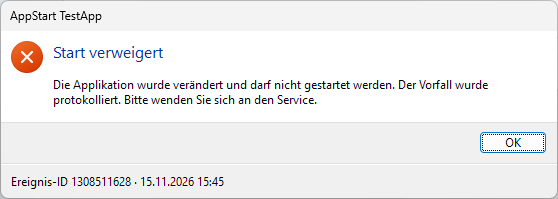
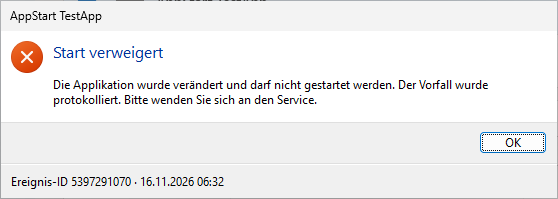
Manual screenshots and apps.json v2 reference (task 8.1), account test fixed, CLAUDE.md
- Capture-ManualScreenshots: learn mode, learn result, helpers dialog, wizard step 1 with helpers;
  wait for the Event Viewer main window; UAT runner suite Manual
- Manual images from 0.3.0-uat.5 (technician name anonymized), chapter 4 with four new images,
  chapter 9 apps.json version 2 (childProcesses, allowedChildren, allowShell, version 1), learn paths
- Texts: "1 Programm übernehmen", "1 Applikation freigegeben"
- AccountServiceReadOnlyTests: build 26300 allows the LSA read without elevation; access-denied text
  now tested deterministically through AccountErrors
- CLAUDE.md: this machine is the test VM

diff --git a/tests/AppStart.Setup.Tests/Accounts/AccountServiceReadOnlyTests.cs b/tests/AppStart.Setup.Tests/Accounts/AccountServiceReadOnlyTests.cs
@@ -93,21 +93,40 @@ public class AccountServiceReadOnlyTests
     }
 
     [Fact(SkipUnless = nameof(TestPlatform.IsWindows), SkipType = typeof(TestPlatform), Skip = TestPlatform.WindowsOnly)]
-    public void Facts_need_admin_rights_and_say_so_in_German()
+    public void Facts_are_correct_or_access_denied_in_German()
     {
+        // Elevated, the facts are always readable. Not elevated, it depends on the Windows build: on the earlier dev
+        // machine LsaOpenPolicy was denied; on build 26300 (test VM) the call succeeds without elevation.
+        // Either way: correct facts, or a clean German access-denied error, never anything else.
         using var identity = WindowsIdentity.GetCurrent();
-        if (new WindowsPrincipal(identity).IsInRole(WindowsBuiltInRole.Administrator))
+        AppStart.Setup.Engine.AccountFacts facts;
+        try
         {
-            var facts = new AccountService().GetFacts(identity.User!.Value);
-            Assert.True(facts.Exists);
-            Assert.Equal(identity.User, facts.Sid);
+            facts = new AccountService().GetFacts(identity.User!.Value);
+        }
+        catch (UnauthorizedAccessException ex) when (!new WindowsPrincipal(identity).IsInRole(WindowsBuiltInRole.Administrator))
+        {
+            Assert.Contains("Zugriff verweigert", ex.Message, StringComparison.Ordinal);
+            Assert.Contains("Administratorrechte", ex.Message, StringComparison.Ordinal);
             return;
         }
 
-        // Not elevated: LsaEnumerateAccountRights is denied; the error must be clean and German.
-        var ex = Assert.Throws<UnauthorizedAccessException>(() => new AccountService().GetFacts(identity.User!.Value));
-        Assert.Contains("Zugriff verweigert", ex.Message, StringComparison.Ordinal);
-        Assert.Contains("Administratorrechte", ex.Message, StringComparison.Ordinal);
+        Assert.True(facts.Exists);
+        Assert.Equal(identity.User, facts.Sid);
+    }
+
+    [Fact]
+    public void Access_denied_says_admin_rights_are_needed_in_German()
+    {
+        var win32 = AccountErrors.FromWin32((uint)Windows.Win32.Foundation.WIN32_ERROR.ERROR_ACCESS_DENIED, "Konto lesen");
+        var ntStatus = AccountErrors.FromNtStatus(new Windows.Win32.Foundation.NTSTATUS(unchecked((int)0xC0000022)), "Lokale Sicherheitsrichtlinie öffnen");
+
+        foreach (var ex in new[] { win32, ntStatus })
+        {
+            var denied = Assert.IsType<UnauthorizedAccessException>(ex);
+            Assert.Contains("Zugriff verweigert", denied.Message, StringComparison.Ordinal);
+            Assert.Contains("Administratorrechte", denied.Message, StringComparison.Ordinal);
+        }
     }
 
     [Fact(SkipUnless = nameof(TestPlatform.IsWindows), SkipType = typeof(TestPlatform), Skip = TestPlatform.WindowsOnly)]

diff --git a/src/AppStart.Setup/ViewModels/SetupTexts.cs b/src/AppStart.Setup/ViewModels/SetupTexts.cs
@@ -112,6 +112,7 @@ public static class SetupTexts
     public const string LearnResultFooter = "Eingabeaufforderung, PowerShell, Explorer und Skript-Hosts werden nie vorgeschlagen. Wer sie trotzdem braucht, trägt sie in «Erlaubte Hilfsprogramme» von Hand ein und bestätigt die Warnung.";
     public const string ButtonDiscard = "Verwerfen";
     public const string ButtonTakeOverFormat = "{0} Programme übernehmen";
+    public const string ButtonTakeOverOne = "1 Programm übernehmen";
     public const string LearnResultNothing = "Es wurde nichts aufgezeichnet. Wurde die Applikation während des Lernmodus über ihre Verknüpfung gestartet?";
 
     // ------------------------------------------------------------------ Step 2: accounts and group

diff --git a/src/AppStart.Setup/ViewModels/LearnResultViewModel.cs b/src/AppStart.Setup/ViewModels/LearnResultViewModel.cs
@@ -81,7 +81,9 @@ public sealed partial class LearnResultViewModel : ObservableObject
 
     public bool IsEmpty => Proposals.Count == 0;
 
-    public string TakeOverText => SetupTexts.Format(SetupTexts.ButtonTakeOverFormat, Proposals.Count(p => p.IsChecked));
+    public string TakeOverText => Proposals.Count(p => p.IsChecked) is var n && n == 1
+        ? SetupTexts.ButtonTakeOverOne
+        : SetupTexts.Format(SetupTexts.ButtonTakeOverFormat, n);
 
     /// <summary>The chosen entries after «übernehmen»; null after «Verwerfen».</summary>
     public IReadOnlyList<AllowedChild>? Selected { get; private set; }

diff --git a/src/AppStart.Setup/Engine/SetupEngineTexts.cs b/src/AppStart.Setup/Engine/SetupEngineTexts.cs
@@ -14,6 +14,7 @@ public static class SetupEngineTexts
     public const string AccountsFailed = "Konten und Gruppe konnten nicht eingerichtet werden";
 
     public const string AppsReleased = "{0} Applikationen freigegeben, Konfiguration geschützt";
+    public const string AppReleasedOne = "1 Applikation freigegeben, Konfiguration geschützt";
     public const string ConfigFailed = "Konfiguration konnte nicht geschrieben werden";
     public const string ConfigUnreadable = "apps.json ist ungültig: {0}";
     public const string UnknownApp = "Applikation «{0}» ist nicht freigegeben";

diff --git a/tests/AppStart.Setup.Tests/Wizard/HelpersViewModelTests.cs b/tests/AppStart.Setup.Tests/Wizard/HelpersViewModelTests.cs
@@ -244,7 +244,7 @@ public sealed class HelpersViewModelTests
         var rec = new LearnRecording { AppId = "appa" }.Record(Export, new string('B', 40), new string('1', 64), null, DateTimeOffset.UtcNow);
         var vm = new LearnResultViewModel(_engine, "appa", "Applikation A", rec);
 
-        Assert.Equal("1 Programme übernehmen", vm.TakeOverText);
+        Assert.Equal("1 Programm übernehmen", vm.TakeOverText);
         vm.Proposals[0].IsChecked = false;
         Assert.Equal("0 Programme übernehmen", vm.TakeOverText);
     }

diff --git a/tests/AppStart.Setup.Tests/Orchestration/SetupEngineTests.cs b/tests/AppStart.Setup.Tests/Orchestration/SetupEngineTests.cs
@@ -61,7 +61,7 @@ public sealed class SetupEngineTests : IDisposable
         Assert.Single(_state.Current.ShortcutBackups);
         Assert.Contains(@"C:\Program Files\AppStart\current\AppStart.Launcher.exe", _shortcuts.LauncherTargets);
         Assert.All(results.Take(4), r => Assert.True(r.Success, r.Text + r.Detail));
-        Assert.Equal("1 Applikationen freigegeben, Konfiguration geschützt", results[1].Text);
+        Assert.Equal("1 Applikation freigegeben, Konfiguration geschützt", results[1].Text);
     }
 
     [Fact]

diff --git a/src/AppStart.Setup/Engine/SetupEngine.cs b/src/AppStart.Setup/Engine/SetupEngine.cs
@@ -162,7 +162,7 @@ public sealed class SetupEngine(
 
             protection.WriteProtectedFile(paths.ConfigPath, AppsConfigSerializer.Serialize(config));
             stateStore.Save(state);
-            results.Add(new(string.Format(SetupEngineTexts.AppsReleased, entries.Count), true));
+            results.Add(new(entries.Count == 1 ? SetupEngineTexts.AppReleasedOne : string.Format(SetupEngineTexts.AppsReleased, entries.Count), true));
         }
         catch (Exception ex) when (ex is not OutOfMemoryException)
         {

diff --git a/docs/manual/images/README.md b/docs/manual/images/README.md
@@ -1,29 +1,42 @@
 # Bilder des Handbuchs
 
-Bildschirmfotos stammen aus der **fertigen Software auf der Test-VM** (Task 10.2), nicht aus den UI-Entwürfen. Format PNG, Fenster ohne Schatten (Alt+Druck oder Snipping Tool «Fenster»), 100 % Skalierung, deutsches Windows 11. Rechnername `PC-014`, keine echten Kunden- oder Domänennamen.
+Bildschirmfotos stammen aus der **fertigen Software auf der Test-VM**, nicht aus den UI-Entwürfen. Format PNG, Fenster ohne Schatten, 100 % Skalierung, Windows 11. Keine echten Kunden- oder Domänennamen und keine Namen von Personen.
+
+Aufgenommen werden sie mit `tests/e2e/Capture-ManualScreenshots.ps1` (im UAT-Runner Suite `Manual`). Die Test-VM heisst `WIN11`; dieser Name erscheint in den Bildern statt `PC-014` aus den UI-Entwürfen.
+
+Nachbearbeitung, damit kein Personenname im Handbuch steht:
+
+- `pruefansicht-ok.png`, `pruefansicht-abweichung.png`: Der Wert «Servicetechniker» zeigt das angemeldete Konto. Der Kontoname nach `WIN11\` ist durch «techniker» ersetzt.
+- `testapp.png`: Die Titelleiste ist abgeschnitten. Das Fenster läuft unter `appstart-app` und lässt sich aus der Testsitzung nicht in den Vordergrund holen, die Titelleiste erscheint dann blass.
 
 Solange eine Datei fehlt, setzt `build/ManualBuilder` im PDF einen Platzhalter mit dem Bildtitel ein. Der Test `AppStart.Documentation.Tests` verlangt, dass jedes im Handbuch verwendete Bild entweder vorhanden ist oder hier aufgeführt wird.
 
 ## Vorhanden
 
-| Datei | Inhalt |
-|---|---|
-| `funktionsweise.svg` | Funktionsweise in einem Bild (Kapitel 1), von Hand gezeichnet |
+| Datei | Kapitel | Inhalt | Stand |
+|---|---|---|---|
+| `funktionsweise.svg` | 1 Überblick | Funktionsweise in einem Bild, von Hand gezeichnet | – |
+| `bootstrapper.png` | 3 Installation | `AppStart-Setup.exe` während der MSI-Installation | 0.3.0-uat.5 |
+| `setup-1.png` | 3 Installation | Assistent Schritt 1, TestApp mit Datenordner und Registry-Key, «Weitere Programme: Gesperrt (empfohlen)» | 0.3.0-uat.5 |
+| `setup-2.png` | 3 Installation | Assistent Schritt 2, Bedienerkonto, Beispielmitglied `DOMAIN\bediener01` | 0.3.0-uat.5 |
+| `setup-3-laeuft.png` | 3 Installation | Assistent Schritt 3 während der Einrichtung | älterer Stand (vor add-allowed-child-processes); die Einrichtung ist auf der Test-VM zu schnell für eine neue Aufnahme |
+| `setup-3.png` | 3 Installation | Assistent Schritt 3 abgeschlossen, «Prüfung bestanden – 9 von 9 Prüfpunkten erfüllt» | 0.3.0-uat.5 |
+| `testapp.png` | 3 Installation | TestApp als Bediener, «Start blockiert durch Job-Objekt» | 0.3.0-uat.5 |
+| `setup-weitere-programme.png` | 4 Applikationen | Schritt 1 mit «Nur erlaubte Hilfsprogramme», «Hilfsprogramme (1)…», Spalte «1 erlaubt» | 0.3.0-uat.5 |
+| `hilfsprogramme.png` | 4 Applikationen | Dialog «Erlaubte Hilfsprogramme» mit TestHelper (SHA-256, nicht signiert) | 0.3.0-uat.5 |
+| `lernmodus.png` | 4 Applikationen | «Lernmodus läuft» mit TestHelper und cmd.exe aufgezeichnet | 0.3.0-uat.5 |
+| `lernergebnis.png` | 4 Applikationen | «Vorschläge übernehmen»: TestHelper angehakt, cmd.exe «Eingabeaufforderung – nur von Hand» | 0.3.0-uat.5 |
+| `pruefansicht-ok.png` | 6 Prüfung | Prüfansicht ohne Abweichung, 9 Prüfpunkte | 0.3.0-uat.5, anonymisiert |
+| `pruefansicht-abweichung.png` | 6 Prüfung | Abweichung bei «Konten»: `appstart-user` in den Administratoren | 0.3.0-uat.5, anonymisiert |
+| `verify-konsole.png` | 6 Prüfung | `AppStart.Setup.exe verify` mit derselben Abweichung | 0.3.0-uat.5 |
+| `launcher-nicht-erreichbar.png` | 7 Meldungen | Dienst gestoppt: «Start-Dienst nicht erreichbar» | 0.3.0-uat.5 |
+| `launcher-verweigert.png` | 7 Meldungen | Ein Byte der EXE geändert: «Start verweigert» mit Ereignis-ID | 0.3.0-uat.5 |
 
 ## Fehlende Bildschirmfotos
+
+Beide zeigen Fenster von Windows selbst. Die Test-VM hat eine englische Oberfläche, das Handbuch braucht deutsches Windows. Aufnahme auf einer VM mit deutscher Oberfläche, mit demselben Skript.
 
 | Datei | Kapitel | Bildschirm | Zustand |
 |---|---|---|---|
 | `startmenue.png` | 3 Installation | Startmenü, Ordner «AppStart» aufgeklappt | Einträge «AppStart – Einrichtung», «AppStart – Einrichtung prüfen», «AppStart – Handbuch» sichtbar |
-| `bootstrapper.png` | 3 Installation | Fenster von `AppStart-Setup.exe` | Während der MSI-Installation: «AppStart wird installiert …» |
-| `setup-1.png` | 3 Installation | Assistent, Schritt 1 «Applikationen auswählen» | Zwei Applikationen in der Liste (eine mit «Signatur», die TestApp mit «SHA-256»), TestApp markiert, «Schutz für AppStart TestApp» mit Datenordner `C:\ProgramData\AppStartTest` und Registry-Key `HKLM\SOFTWARE\AppStartTest` ausgefüllt, Knopf «Einrichtung prüfen» sichtbar |
-| `setup-2.png` | 3 Installation | Assistent, Schritt 2 «Konten und Gruppe» | Erstinstallation: App-Konto «Wird angelegt …», «Bedienerkonto appstart-user anlegen» angehakt, Passwortfelder gefüllt (Punkte), ein weiteres Mitglied `DOMAIN\bediener01` in der Liste |
-| `setup-3-laeuft.png` | 3 Installation | Assistent, Schritt 3 | Während der Einrichtung: «Einrichtung läuft», Fortschrittszeile z.B. «Datenordner und Registry-Keys werden gesperrt …» |
-| `setup-3.png` | 3 Installation | Assistent, Schritt 3 | Abgeschlossen: fünf Zeilen mit ✓, «Prüfung bestanden – 8 von 8 Prüfpunkten erfüllt», Pfad des Berichts, Knöpfe «Prüfbericht öffnen» und «Fertig» |
-| `testapp.png` | 3 Installation | Fenster «AppStart TestApp» | Gestartet als Bediener über die Verknüpfung, alle Zeilen «OK», nach Klick auf «Eingabeaufforderung starten»: «Start blockiert durch Job-Objekt» |
-| `pruefansicht-ok.png` | 6 Prüfung | Prüfansicht «AppStart – Einrichtung prüfen» | Keine Abweichung, grüner Kasten «Einrichtung entspricht dem Soll» |
-| `pruefansicht-abweichung.png` | 6 Prüfung | Prüfansicht | Eine Abweichung bei «Konten»: `appstart-user` vorübergehend in die Administratoren aufgenommen, roter Kasten «Einsatz nicht abschliessen» |
-| `verify-konsole.png` | 6 Prüfung | Eingabeaufforderung (Administrator) | Ausgabe von `AppStart.Setup.exe verify` mit einer Abweichung (wie `pruefansicht-abweichung.png`) |
-| `launcher-nicht-erreichbar.png` | 7 Meldungen | Meldung des Launchers | Dienst gestoppt (`sc stop AppStart`), Start der TestApp: «Start-Dienst nicht erreichbar» |
-| `launcher-verweigert.png` | 7 Meldungen | Meldung des Launchers | Byte der TestApp-EXE geändert: «Start verweigert» mit Zeile «Ereignis-ID … · Datum Uhrzeit» |
-| `ereignisanzeige.png` | 7 Meldungen | Ereignisanzeige, Protokoll «Anwendung», gefiltert auf Quelle AppStart | Eintrag 1201 markiert, Text mit «Vorgang: …» sichtbar |
+| `ereignisanzeige.png` | 7 Meldungen | Ereignisanzeige, Protokoll «Anwendung», gefiltert auf Quelle AppStart | Eintrag 1201 markiert, Text mit «Vorgang: …» sichtbar; Windows aktiviert (kein Wasserzeichen) |

diff --git a/docs/manual/09-referenz.md b/docs/manual/09-referenz.md
@@ -397,11 +397,11 @@ Akzeptiert genau `--app` und eine gültige AppId, sonst «Ungültige Verknüpfun
 
 ## Soll-Konfiguration apps.json
 
-Pfad: `C:\ProgramData\AppStart\apps.json`. Lesen und schreiben nur SYSTEM und Administratoren (Besitzer Administratoren, Zugriffsliste geschützt, nicht geerbt). Der Dienst liest die Datei bei jeder Startanfrage neu. Das Setup schreibt sie; von Hand nur für `allowChildProcesses` bearbeiten.
+Pfad: `C:\ProgramData\AppStart\apps.json`. Lesen und schreiben nur SYSTEM und Administratoren (Besitzer Administratoren, Zugriffsliste geschützt, nicht geerbt). Der Dienst liest die Datei bei jeder Startanfrage neu. Das Setup schreibt sie; von Hand bearbeiten ist nicht nötig, auch die weiteren Programme setzen Assistent und Kommandozeile (`set-children`, `allow-child`, `deny-child`, `learn`).
 
 ```json
 {
-  "version": 1,
+  "version": 2,
   "apps": [
     {
       "id": "app-a",
@@ -411,7 +411,11 @@ Pfad: `C:\ProgramData\AppStart\apps.json`. Lesen und schreiben nur SYSTEM und Ad
       "check": "signature",
       "signerThumbprint": "3F2A9C0D8E7B6A5948372615F4E3D2C1B0A99887",
       "sha256": null,
-      "allowChildProcesses": false,
+      "childProcesses": "allowlist",
+      "allowedChildren": [
+        { "exe": "C:\\Program Files\\Hersteller\\AppA\\Export.exe", "check": "signature", "signerThumbprint": "3F2A9C0D8E7B6A5948372615F4E3D2C1B0A99887" },
[1 lines of base64/hex data omitted]
+      ],
       "dataDir": "C:\\ProgramData\\Hersteller\\AppA",
       "registryKey": "HKLM\\SOFTWARE\\Hersteller\\AppA"
     },
@@ -423,7 +427,7 @@ Pfad: `C:\ProgramData\AppStart\apps.json`. Lesen und schreiben nur SYSTEM und Ad
       "check": "sha256",
       "signerThumbprint": null,
[1 lines of base64/hex data omitted]
-      "allowChildProcesses": false,
+      "childProcesses": "blocked",
       "dataDir": "C:\\ProgramData\\AppStartTest",
       "registryKey": "HKLM\\SOFTWARE\\AppStartTest"
     }
@@ -433,7 +437,7 @@ Pfad: `C:\ProgramData\AppStart\apps.json`. Lesen und schreiben nur SYSTEM und Ad
 
 | Feld | Pflicht | Regel |
 |---|---|---|
-| `version` | ja | Immer `1` |
+| `version` | ja | `2`. Version `1` (vor den weiteren Programmen) liest der Dienst weiter, siehe unten. |
 | `apps` | ja | Liste der freigegebenen Applikationen, darf leer sein |
 | `id` | ja | AppId: `a-z`, `0-9` und `-`, 1 bis 32 Zeichen, eindeutig. Steht in der Verknüpfung (`--app`). |
 | `name` | ja | Anzeigename, nicht leer. Name der Verknüpfung `<name>.lnk`. |
@@ -442,11 +446,15 @@ Pfad: `C:\ProgramData\AppStart\apps.json`. Lesen und schreiben nur SYSTEM und Ad
 | `check` | ja | `signature`: gültige Authenticode-Signatur und Zertifikat mit `signerThumbprint` (keine Online-Sperrprüfung). `sha256`: Prüfsumme muss exakt stimmen. |
 | `signerThumbprint` | bei `signature` | 40 Hex-Zeichen, sonst `null` |
 | `sha256` | bei `sha256` | 64 Hex-Zeichen, sonst `null` |
-| `allowChildProcesses` | nein | `false` (Standard): Applikation im Job-Objekt, keine weiteren Programme. `true`: kein Job-Objekt. |
+| `childProcesses` | nein | Weitere Programme: `blocked` (Standard, auch wenn das Feld fehlt): Job-Objekt, keine weiteren Programme. `allowlist`: überwachtes Job-Objekt, nur Programme aus `allowedChildren`, alle anderen beendet der Dienst sofort (Ereignis 1206). `all`: kein Job-Objekt; `verify` nennt die Applikation als Hinweis. |
+| `allowedChildren` | bei `allowlist` | Nur bei `allowlist`, dort mindestens ein Eintrag. Je Eintrag `exe` (absoluter lokaler Pfad auf `.exe`, ohne `%`, je Applikation eindeutig), `check` und `signerThumbprint` bzw. `sha256` nach denselben Regeln wie bei der Applikation, optional `allowShell: true`. |
+| `allowShell` | bei Shells | In einem Eintrag von `allowedChildren`: nötig für `cmd.exe`, `powershell.exe`, `pwsh.exe`, `wscript.exe`, `cscript.exe`, `mshta.exe`, `rundll32.exe`, `regsvr32.exe` und `explorer.exe`; bestätigt, dass ein Bediener damit jedes Programm mit Admin-Rechten starten kann. |
 | `dataDir` | nein | Datenordner, absoluter lokaler Pfad, oder `null` |
 | `registryKey` | nein | Key unter `HKLM\`, oder `null` |
 
 Unbekannte Felder, Kommentare und Kommas nach dem letzten Element sind nicht erlaubt; die Datei ist dann ungültig.
+
+**Version 1.** Installationen vor den weiteren Programmen haben `"version": 1` und je Applikation `allowChildProcesses` statt `childProcesses`. Der Dienst liest Version 1 weiter: `false` (oder fehlend) wirkt wie `blocked`, `true` wie `all`. Die erste Änderung durch das Setup (z.B. `rehash`, Assistent) schreibt Version 2 mit demselben Modus. In Version 2 ist `allowChildProcesses` ein Fehler, in Version 1 sind `childProcesses` und `allowedChildren` Fehler.
 
 ## Pfade
 
@@ -459,6 +467,8 @@ Unbekannte Felder, Kommentare und Kommas nach dem letzten Element sind nicht erl
 | `C:\Program Files\AppStart\current\TestApp\AppStart.TestApp.exe` | Testapplikation | wie oben |
 | `C:\ProgramData\AppStart` | Daten von AppStart | Nur SYSTEM und Administratoren |
 | `C:\ProgramData\AppStart\apps.json` | Freigaben | Nur SYSTEM und Administratoren |
+| `C:\ProgramData\AppStart\learn.json` | Laufende Lernmodi (AppId, Beginn, Ende). Schreibt nur das Setup (`learn start`/`stop`). Ist sie für Bediener beschreibbar, ignoriert der Dienst sie (Ereignis 1207). | Nur SYSTEM und Administratoren |
+| `C:\ProgramData\AppStart\Learn\<AppId>.json` | Aufzeichnung des Lernmodus je Applikation (Programme, Prüfwerte, Starts). Wird nach `learn apply` bzw. «Verwerfen» gelöscht. | Nur SYSTEM und Administratoren |
 | `C:\ProgramData\AppStart\setup-state.json` | Was das Setup geändert hat (gesicherte Rechte, angelegte Verknüpfungen), Grundlage für `remove` und `uninstall`. Nicht bearbeiten. | Nur SYSTEM und Administratoren |
 | `C:\ProgramData\AppStart\ShortcutBackup` | Gesicherte Verknüpfungen, die direkt auf eine EXE zeigten | Nur SYSTEM und Administratoren |
 | `C:\ProgramData\AppStart\Reports` | Prüfberichte `verify-<JJJJ-MM-TT-hhmmss>.html` und `.json` | Nur SYSTEM und Administratoren |

diff --git a/docs/manual/04-applikationen-verwalten.md b/docs/manual/04-applikationen-verwalten.md
@@ -117,6 +117,8 @@ In Schritt 1 zeigt die Spalte «Weitere Programme» den Modus jeder Applikation,
 
 Die Änderungen gelten erst, wenn Sie den Assistenten mit «Weiter» abschliessen.
 
+![Setup Schritt 1: Weitere Programme «Nur erlaubte Hilfsprogramme», ein Hilfsprogramm erlaubt](images/setup-weitere-programme.png)
+
 **Dialog «Erlaubte Hilfsprogramme – Applikation A».** Überschrift «Erlaubte Hilfsprogramme», darunter «Diese Programme darf Applikation A starten. Sie laufen dann ebenfalls mit Admin-Rechten. Jedes andere Programm beendet der Dienst sofort und protokolliert es.» Die Liste zeigt je Programm die Prüfung und den Zustand:
 
 | Zustand | Bedeutung |
@@ -133,6 +135,8 @@ Knöpfe: «EXE hinzufügen…», «Lernmodus starten…», «Prüfsumme aktualis
 
 «Übernehmen» gibt die Liste an den Assistenten zurück, «Abbrechen» verwirft die Änderungen im Dialog.
 
+![Dialog «Erlaubte Hilfsprogramme» mit einem nicht signierten Hilfsprogramm](images/hilfsprogramme.png)
+
 ### Lernmodus: Hilfsprogramme ermitteln
 
 Welche Programme eine Applikation braucht, ist oft nicht bekannt. Der Lernmodus zeichnet es auf: Für eine begrenzte Zeit beendet der Dienst bei dieser Applikation nichts, sondern notiert jedes gestartete Programm (Ereignis 1102). Danach gilt wieder der eingestellte Modus, auch in einer noch laufenden Applikation.
@@ -144,6 +148,8 @@ Der Lernmodus ist erst möglich, wenn die Applikation eingerichtet ist. Sonst me
 3. Die Liste «Aufgezeichnete Programme» zeigt «Starts» und «Zuletzt» je Programm, anfangs «Noch nichts aufgezeichnet.»
 4. «Lernmodus beenden» (oder Ablauf der Zeit) führt zu «Vorschläge übernehmen». «Abbrechen, nichts übernehmen» beendet den Lernmodus und löscht die Aufzeichnung. Kann der Lernmodus nicht starten, steht «Der Lernmodus konnte nicht gestartet werden: …» mit dem Grund im Dialog.
 
+![Lernmodus läuft: zwei aufgezeichnete Programme, Restzeit rechts oben](images/lernmodus.png)
+
 **Dialog «Vorschläge übernehmen».** «Der Lernmodus ist beendet, der Schutz wieder aktiv. Wählen Sie, welche Programme Applikation A künftig starten darf.» Gültig signierte Programme werden mit Signatur vorgeschlagen, alle anderen mit SHA-256. Die Spalte «Hinweis»:
 
 | Hinweis | Vorauswahl |
@@ -154,7 +160,9 @@ Der Lernmodus ist erst möglich, wenn die Applikation eingerichtet ist. Sonst me
 | «Eingabeaufforderung – nur von Hand», «Shell oder Skript-Host – nur von Hand» | nicht auswählbar |
 | «Ordner für Bediener beschreibbar» | nicht auswählbar |
 
-Unten: «Eingabeaufforderung, PowerShell, Explorer und Skript-Hosts werden nie vorgeschlagen. Wer sie trotzdem braucht, trägt sie in «Erlaubte Hilfsprogramme» von Hand ein und bestätigt die Warnung.» «2 Programme übernehmen» übernimmt die angehakten in die Liste, «Verwerfen» nichts; beide löschen die Aufzeichnung. Wurde nichts aufgezeichnet: «Es wurde nichts aufgezeichnet. Wurde die Applikation während des Lernmodus über ihre Verknüpfung gestartet?»
+Unten: «Eingabeaufforderung, PowerShell, Explorer und Skript-Hosts werden nie vorgeschlagen. Wer sie trotzdem braucht, trägt sie in «Erlaubte Hilfsprogramme» von Hand ein und bestätigt die Warnung.» «2 Programme übernehmen» (bei einem: «1 Programm übernehmen») übernimmt die angehakten in die Liste, «Verwerfen» nichts; beide löschen die Aufzeichnung. Wurde nichts aufgezeichnet: «Es wurde nichts aufgezeichnet. Wurde die Applikation während des Lernmodus über ihre Verknüpfung gestartet?»
+
+![Vorschläge übernehmen: Hilfsprogramm angehakt, cmd.exe nicht auswählbar](images/lernergebnis.png)
 
 Meldungen des Lernmodus auf der Kommandozeile:
 

diff --git a/docs/manual/07-meldungen-und-fehlerbehebung.md b/docs/manual/07-meldungen-und-fehlerbehebung.md
@@ -179,7 +179,7 @@ Assistent (Schritt 3) und Kommandozeile zeigen je Schritt eine Zeile mit ✓ ode
 |---|---|---|
 | «Konten appstart-app und appstart-user, Gruppe AppStart Users angelegt» / «Konto appstart-app und Gruppe AppStart Users angelegt» | Konten und Gruppe eingerichtet (vorhandene geprüft) | – |
 | «Konten und Gruppe konnten nicht eingerichtet werden» | Konto oder Gruppe konnten nicht angelegt werden; die weiteren Schritte entfallen. Gründe z.B. «Zugriff verweigert. Dafür sind Administratorrechte nötig.», «Das Passwort erfüllt die Kennwortrichtlinie dieses Computers nicht (Länge, Komplexität oder Verlauf).», «Das Konto «…» wurde nicht gefunden.», «… ist kein Benutzerkonto.» | Grund beheben (Admin-Rechte, anderes Passwort, Konto prüfen), Einrichtung wiederholen |
-| «2 Applikationen freigegeben, Konfiguration geschützt» | `apps.json` geschrieben und geschützt | – |
+| «2 Applikationen freigegeben, Konfiguration geschützt» (bei einer: «1 Applikation freigegeben, Konfiguration geschützt») | `apps.json` geschrieben und geschützt | – |
 | «Konfiguration konnte nicht geschrieben werden» | `C:\ProgramData\AppStart` oder `apps.json` lässt sich nicht schützen oder schreiben, oder eine Angabe ist ungültig (Grund wie beim Prüfpunkt [apps.json](06-pruefung-nach-serviceeinsatz.md)). Weitere Schritte entfallen. | Grund beheben. Ist `C:\ProgramData\AppStart` ein Verweis (Junction), Ordner als Administrator prüfen und löschen. |
 | «apps.json ist ungültig: …» | Die bestehende `apps.json` ist beschädigt; das Setup ändert nichts | Datei korrigieren oder aus Sicherung zurückholen |
 | «Applikation «app-x» ist nicht freigegeben» | `remove` oder `rehash` mit unbekannter AppId | AppId mit `list` prüfen |

diff --git a/openspec/changes/add-allowed-child-processes/tasks.md b/openspec/changes/add-allowed-child-processes/tasks.md
@@ -32,6 +32,6 @@
 - [x] 7.2 (38 PASS, 0 FAIL, Protokoll tests/e2e/uat/2026-11-16-update-v1) Update von einer Installation mit apps.json Version 1: Schutz unverändert
 
 ## 8. Dokumentation
-- [ ] 8.1 Handbuch: 03-installation (Antwortdatei, /config), 04-applikationen-verwalten (Weitere Programme, Lernmodus statt Handbearbeitung), 07-meldungen (neue Ereignisse), 09-referenz (Befehle, apps.json v2, Antwortdatei, Exit-Codes); Bildschirmfotos
+- [x] 8.1 (Bilder aus 0.3.0-uat.5 auf der Test-VM, siehe docs/manual/images/README.md; startmenue.png und ereignisanzeige.png gehören zu add-appstart-service 10.2 und brauchen eine VM mit deutscher Oberfläche) Handbuch: 03-installation (Antwortdatei, /config), 04-applikationen-verwalten (Weitere Programme, Lernmodus statt Handbearbeitung), 07-meldungen (neue Ereignisse), 09-referenz (Befehle, apps.json v2, Antwortdatei, Exit-Codes); Bildschirmfotos
 - [x] 8.2 sicherheitsmodell.md und funktionsweise.md: Modus allowlist, Restrisiko aus design.md
-- [ ] 8.3 Alle Tests grün. Erst wenn add-appstart-service archiviert ist (damit «Keine Kindprozesse» in openspec/specs steht): openspec archive add-allowed-child-processes
+- [ ] 8.3 (16.11.2026: 663 von 663 Tests grün; Archiv wartet auf add-appstart-service, dort offen 1.4, 7.2, 7.3, 8.4, 10.2) Alle Tests grün. Erst wenn add-appstart-service archiviert ist (damit «Keine Kindprozesse» in openspec/specs steht): openspec archive add-allowed-child-processes
